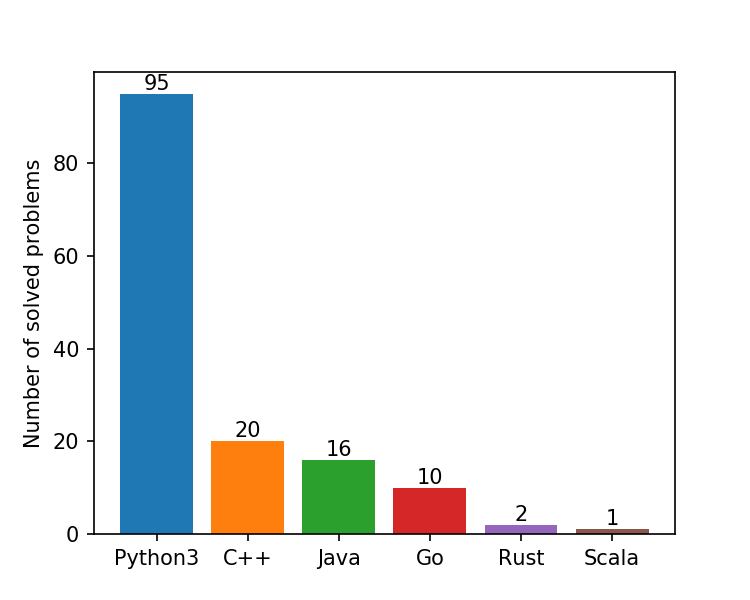
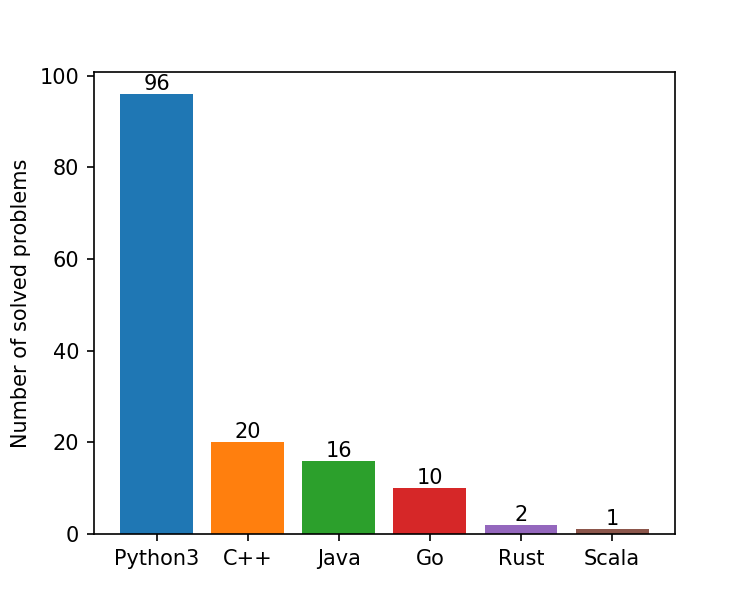
solve aoj 0300 using python

diff --git a/python/0300.py b/python/0300.py
@@ -1,0 +1,21 @@
+from heapq import heappush, heappop
+rot1 = [1,2,3,4,5,6,22,23,24,12,11,10,18,14,15,16,17,13,19,20,21,7,8,9,25,26,27,28,29,30]
+rot2 = [28,29,30,4,5,6,7,8,9,10,11,12,13,14,16,15,17,18,21,20,19,22,23,24,25,26,27,1,2,3]
+rot3 = [24,2,3,27,5,6,30,8,9,21,11,12,13,14,15,18,17,16,19,20,10,22,23,1,25,26,4,28,29,7]
+rot4 = [1,2,22,4,5,25,7,8,28,10,11,19,15,14,13,16,17,18,12,20,21,3,23,24,6,26,27,9,29,30]
+N = int(input())
+for _ in range(N):
+    closeset = set()
+    finstate = (1,1,1,1,1,1,1,1,1,2,2,2,4,4,4,6,6,6,5,5,5,3,3,3,3,3,3,3,3,3)
+    state = tuple(map(int,input().split()))
+    que = [(0,state,0)]
+    while que:
+        numope, cstate, lasope = heappop(que)
+        if cstate == finstate: break
+        if cstate in closeset: continue
+        closeset.add(cstate)
+        for ope,rot in zip(range(1,5),[rot1,rot2,rot3,rot4]):
+            if lasope != ope:
+                nstate = tuple(cstate[i-1] for i in rot)
+                heappush(que,(numope+1,nstate,ope))
+    print(numope)

diff --git a/README.md b/README.md
@@ -12,7 +12,7 @@ Solved problems
 `0200 0201 0202 0203 0204 0205 0206 0207 0208 0209`  
 `0210 0211 0212 0213 0215 0216 0217 0218 0219`  
 `0220 0221 0222 0223 0224 0225`  
-`0301`  
+`0300 0301`  
 `GRL_1_A GRL_1_B GRL_1_C`  
 
 ## C++
